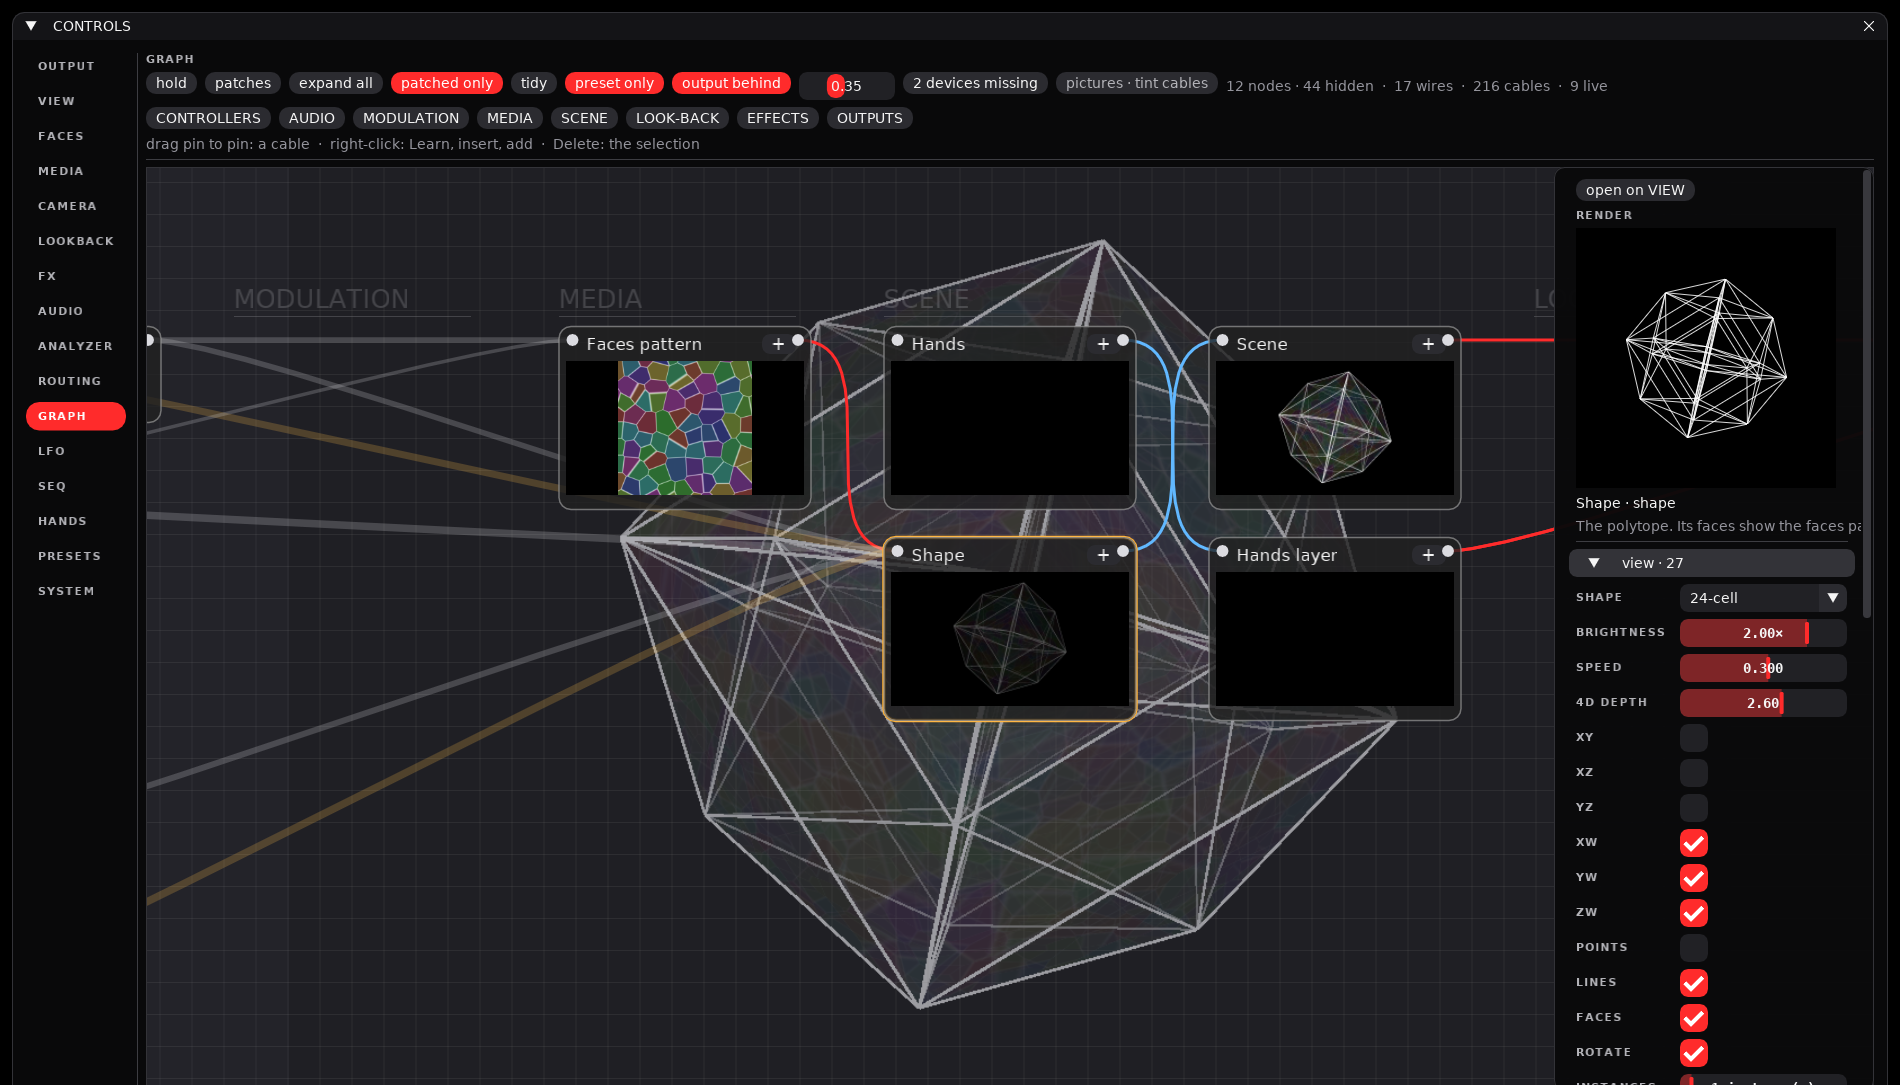
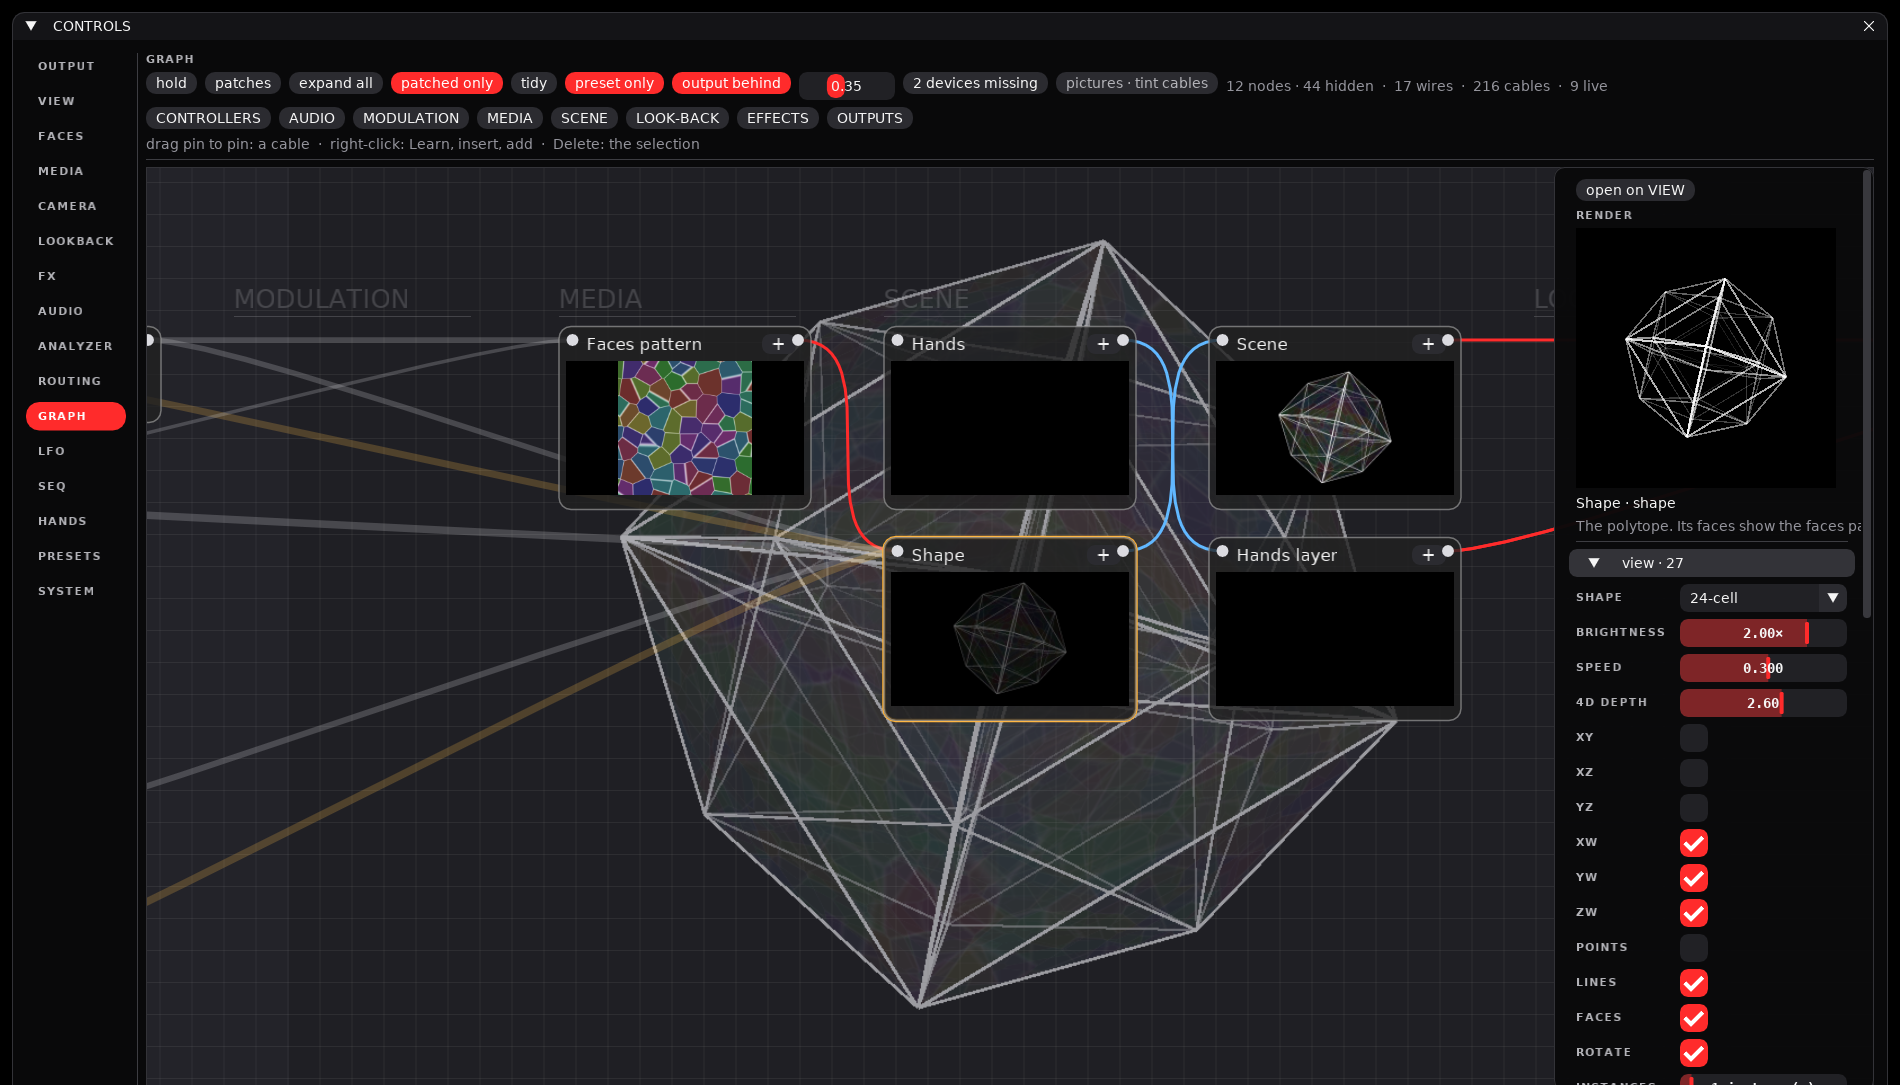
GRAPH: the shape's wireframe is drawn by the renderer, not line by line in the panel
The side panel's wireframe was projected and drawn edge by edge in Python
every frame: several ms on the densest shapes, on the panel's loop. Now
the panel asks the renderer for it (Renderer.want_wire) and shows the
picture: at the end of a frame the renderer draws the shape through its
own scene pass with the edges alone (no faces, points or copies, the
camera at rest, brightness 1) over black into a square of its own, at the
box's framebuffer size so it stays sharp; not asked for a second, the
texture is freed. The canvas node keeps its scene picture as before.

Held, it is the preview renderer's, as the sliders under it are. The
outputs are byte-identical with and without it (tests/test_shape_wire.py).

Claude-Session: https://claude.ai/code/session_016tHLxhH2LM2eyW5kMYSG7p

diff --git a/hyperspace-python/tests/test_shape_wire.py b/hyperspace-python/tests/test_shape_wire.py
@@ -1,0 +1,123 @@
+"""The shape node's wireframe on GRAPH's side panel: the renderer draws the
+shape's edges alone, white on black, into a square of its own at the end of
+a frame (`Renderer.want_wire`, `_wire`) while the page asks, and frees it a
+second after; the page shows it when the shape node is selected
+(`ui_graph._wireframe`). No output pixel moves for it."""
+
+from __future__ import annotations
+
+from types import SimpleNamespace as NS
+
+import numpy as np
+from conftest import seed
+from test_thumbnails import SIZE, S, _px, _renderer, _views, ctx  # noqa: F401 — the GL fixture
+from test_ui_shell import frame
+from test_ui_shell import rig as shell_rig  # noqa: F401 — the headless panel fixture
+
+from hyperspace import graphview, render, ui_graph
+from hyperspace import hold as holdmod
+
+
+def _rgba(tex) -> np.ndarray:
+    w, h = tex.size
+    return np.frombuffer(tex.read(), np.uint8).reshape(h, w, 4)
+
+
+def test_the_outputs_are_byte_identical_with_and_without_the_wireframe(ctx):  # noqa: F811
+    """Three frames with the wireframe asked for give the same bytes on both
+    outputs, and the same counts, as three without."""
+    plain, wired = _renderer(ctx), _renderer(ctx)
+    pv, wv = _views(ctx), _views(ctx)
+    for k in range(3):
+        t = 2.0 + k / 60
+        plain.draw_outputs(S, *SIZE, 1.0, pv, t_now=t)
+        wired.want_wire(128)
+        wired.draw_outputs(S, *SIZE, 1.0, wv, t_now=t)
+        assert ctx.error == "GL_NO_ERROR"
+        for a, b in zip(pv, wv, strict=True):
+            assert np.array_equal(_px(a.target), _px(b.target)), k
+        assert plain.stats["effects"] == wired.stats["effects"]
+    assert plain.wire_texture() is None and wired.wire_texture() is not None
+    assert not getattr(wired, "wire_error", "")
+
+
+def test_the_wireframe_is_the_shapes_edges_white_on_black(ctx):  # noqa: F811
+    """The square is opaque black with grey-to-white lines on it — no
+    faces' colour, no red points — and turns with the shape."""
+    r, views = _renderer(ctx), _views(ctx)
+    r.want_wire(128)
+    r.draw_outputs(S, *SIZE, 1.0, views, t_now=2.0)
+    tex = r.wire_texture()
+    assert tuple(tex.size) == (128, 128)
+    px = _rgba(tex).astype(int)
+    assert (px[..., 3] == 255).all()                         # opaque: over black
+    lit = px[..., :3].max(axis=2) > 24
+    assert 0.01 < lit.mean() < 0.6                           # lines, not a fill
+    assert px[..., :3].max() > 150                           # some of them bright
+    rgb = px[lit][:, :3]
+    assert (rgb.max(axis=1) - rgb.min(axis=1)).max() <= 2    # grey: no colour at all
+    corners = px[[0, 0, -1, -1], [0, -1, 0, -1], :3]
+    assert (corners == 0).all()                              # black ground
+    turned = render.ViewState(**{**S.__dict__, "ang": [1.3, 0.2, 0.4, 1.9, 0.1, 0.6]})
+    r.want_wire(128)
+    r.draw_outputs(turned, *SIZE, 1.0, views, t_now=2.1)
+    assert not np.array_equal(_rgba(r.wire_texture()).astype(int), px)
+
+
+def test_the_wireframe_follows_its_size_and_is_dropped_unasked(ctx, monkeypatch):  # noqa: F811
+    """Its square is the size asked (clamped); not asked for `WIRE_DROP_S`,
+    its texture is freed; a hot reload frees it too."""
+    r, views = _renderer(ctx), _views(ctx)
+    r.draw_outputs(S, *SIZE, 1.0, views, t_now=2.0)
+    assert r.wire_texture() is None                          # never asked: nothing made
+    r.want_wire(64)
+    r.draw_outputs(S, *SIZE, 1.0, views, t_now=2.1)
+    assert tuple(r.wire_texture().size) == (64, 64)
+    r.want_wire(96)
+    r.draw_outputs(S, *SIZE, 1.0, views, t_now=2.2)
+    assert tuple(r.wire_texture().size) == (96, 96)
+    r.want_wire(10 ** 6)
+    assert r.wire_asked[0] == render.WIRE_PX_MAX
+    r.want_wire(96)
+    r.draw_outputs(S, *SIZE, 1.0, views, t_now=2.3)
+    monkeypatch.setattr(render, "WIRE_DROP_S", 0.0)          # a second has gone by
+    r.draw_outputs(S, *SIZE, 1.0, views, t_now=2.4)
+    assert r.wire_texture() is None and r.wire_asked is None
+    monkeypatch.setattr(render, "WIRE_DROP_S", 1.0)
+    r.want_wire(96)
+    r.draw_outputs(S, *SIZE, 1.0, views, t_now=2.5)
+    assert r.wire_texture() is not None
+    r.on_reload()
+    assert r.wire_texture() is None
+
+
+def test_wire_px_is_the_box_in_framebuffer_px():
+    assert ui_graph.wire_px(260.0, 1.0) == 260
+    assert ui_graph.wire_px(260.0, 2.0) == 520               # a Retina screen: 1:1, sharp
+    assert ui_graph.wire_px(4.0, 1.0) == 16
+
+
+def test_only_the_shape_nodes_details_ask_for_the_wireframe(shell_rig, monkeypatch):  # noqa: F811
+    """The shape node selected on GRAPH asks the canvas's renderer for its
+    wireframe at the box's size; another node's details do not."""
+    seed(shell_rig.lib.home)
+    panel = shell_rig.panel
+    frame(panel, "graph")
+    st = ui_graph._state(panel)
+    asked: list[int] = []
+    stub = NS(want_wire=asked.append, wire_texture=lambda: None)
+    monkeypatch.setattr(holdmod, "canvas_renderer", lambda p: stub)
+    from imgui_bundle import imgui
+    shape = st["view"].node("render:shape")
+    got = []
+    for n in (shape, graphview.VNode("device:pad", "device", "pad")):
+        asked.clear()
+        imgui.new_frame()
+        imgui.set_next_window_size(imgui.ImVec2(400, 600))
+        imgui.begin("side")
+        ui_graph._side(panel, st, st["view"], ("node", n))
+        imgui.end()
+        imgui.end_frame()
+        got.append(list(asked))
+    assert len(got[0]) == 1 and 16 <= got[0][0] <= ui_graph.WIRE_MAX
+    assert got[1] == []

diff --git a/hyperspace-python/hyperspace/render.py b/hyperspace-python/hyperspace/render.py
@@ -171,6 +171,12 @@ from .view import N_MOD, RED, ViewState  # re-exported for callers that had them
 PREVIEW_HZ = 10.0
 PREVIEWS_PER_FRAME = 2
 
+# the GRAPH page's shape wireframe (`Renderer.want_wire`): the shape's edges
+# alone, white on black, in a square at most this many px a side, dropped
+# this long after the page last asked for it
+WIRE_PX_MAX = 1024
+WIRE_DROP_S = 1.0
+
 # plan 33 R29: how many frames a texture made at another size (`pool_at`, a
 # `(name, size)` frame target) is kept after its last use before
 # `_prune_sized` releases it — so a switch the sequencer flicks between two
@@ -1319,6 +1325,7 @@ class Renderer:
         if getattr(self, "thumbs", None) is not None:
             self.thumbs.close()
         self.thumbs = None
+        self._drop_wire()               # (the page asks again next frame)
         for res in (getattr(self, "_show_vao", None), getattr(self, "_show_prog", None),
                     getattr(self, "_lay_vao", None), getattr(self, "_lay_prog", None)):
             if res is not None:
@@ -1783,6 +1790,7 @@ class Renderer:
                 ui.upload()
             except Exception:  # noqa: BLE001, S110 — a thumbnail not made stays a dark box
                 pass
+        self._wire()
         self._thumbnails()
 
     # ---- plan 37 C1: the GRAPH page's thumbnails ----
@@ -1847,6 +1855,73 @@ class Renderer:
             if th.count:
                 _flush()
         th.end_frame()
+
+    # ---- the shape node's wireframe (GRAPH's side panel) ----
+
+    def want_wire(self, px: int) -> None:
+        """The GRAPH page shows the shape node's details: draw the shape's
+        wireframe into a `px` square at the end of the next frame (`_wire`),
+        and every frame after until the page has not asked for
+        `WIRE_DROP_S` — then its texture is freed, so a page not showing it
+        costs nothing."""
+        self.wire_asked = (max(16, min(int(px), WIRE_PX_MAX)), time.monotonic())
+
+    def wire_texture(self) -> moderngl.Texture | None:
+        """The wireframe as last drawn (GL's rows), or None: never asked, or dropped."""
+        got = self.__dict__.get("_wire_gl")
+        return got[0] if got is not None else None
+
+    def _drop_wire(self) -> None:
+        got, self._wire_gl = self.__dict__.get("_wire_gl"), None
+        for res in (got or ())[::-1]:
+            try:
+                res.release()
+            except Exception:  # noqa: BLE001, S110 — teardown is best-effort
+                pass
+
+    def _wire(self) -> None:
+        """The end of a frame (`_for_the_panel`), when the page asked: the
+        shape as this frame drew it (`_thumb_frame`'s view state: its shape,
+        angles, 3D hold, yaw and pitch) through `draw_scene` with the edges
+        alone — no faces, no points, one copy, the camera's zoom and pan and
+        the eye left at rest, brightness 1 — over black, into the wire's
+        own square. The scene pass's buffers it writes are rewritten by the
+        next frame's before anything reads them; what the cover pass reads
+        of the last pass (`_face_verts`, `_copies`, `_scene_mats`) is put
+        back. Never raises: the panel's pictures must not take the frame down."""
+        asked = getattr(self, "wire_asked", None)
+        if asked is None:
+            return
+        px, at = asked
+        if time.monotonic() - at >= WIRE_DROP_S:
+            self.wire_asked = None
+            self._drop_wire()
+            return
+        frame = getattr(self, "_thumb_frame", None)
+        if frame is None:
+            return
+        ctx = self.ctx
+        saved = (self._face_verts, self._copies, self._scene_mats)
+        try:
+            got = self.__dict__.get("_wire_gl")
+            if got is None or tuple(got[0].size) != (px, px):
+                self._drop_wire()
+                tex = ctx.texture((px, px), 4)
+                tex.filter = (moderngl.LINEAR, moderngl.LINEAR)
+                got = self._wire_gl = (tex, ctx.framebuffer(color_attachments=[tex]))
+            ws = replace(frame.s, faces=False, points=False, lines=True, lines_alpha=1.0,
+                         bright=1.0, instances=1, inst_fit=False, zoom=1.0, pan=[0.0, 0.0],
+                         eye_fov=EYE_FOV, eye_distance=EYE_DISTANCE, screen_strokes=False)
+            got[1].use()
+            ctx.viewport = (0, 0, px, px)
+            ctx.clear(0.0, 0.0, 0.0, 1.0)
+            self.draw_scene(ws, px, px, clear=False)
+            self.wire_error = ""
+        except Exception as e:  # noqa: BLE001 — a wireframe not drawn stays black
+            self.wire_error = f"{type(e).__name__}: {e}"[:120]
+        finally:
+            self._face_verts, self._copies, self._scene_mats = saved
+            ctx.blend_func = moderngl.SRC_ALPHA, moderngl.ONE_MINUS_SRC_ALPHA
 
     def media_shown(self, c: str) -> tuple[moderngl.Texture, bool] | None:
         """Channel `c`'s raw texture as this frame read it, and whether its

diff --git a/hyperspace-python/hyperspace/ui_graph.py b/hyperspace-python/hyperspace/ui_graph.py
@@ -156,7 +156,6 @@ import sys
 import time
 from pathlib import Path
 
-import numpy as np
 from imgui_bundle import imgui
 from imgui_bundle import imgui_node_editor as ed
 
@@ -164,7 +163,6 @@ from . import graph as rgraph
 from . import graphview, modifiers, params, patches, pinch, ui, ui_fx, ui_pad, ui_routing, undo
 from . import hold as holdmod
 from .bands import CEIL
-from .geometry import geom, shape_view
 from .graph import Effect
 from .library import LibraryError
 from .params import Kind
@@ -250,10 +248,10 @@ MONITOR_TIP = "What the projector shows: the held look. TAKE puts the preview be
 FAINT_PIC = 0.4
 THUMB_GROUND = (0.0, 0.0, 0.0, 1.0)    # the box before (or without) a picture
 # the shape node's side panel: the polytope alone, as white lines on black
-# (`wireframe`) — the shape as it turns now, without the scene's faces,
-# points, pattern or effects; a square this wide (capped) at the top
+# (`_wireframe`, drawn by the renderer: `Renderer.want_wire`) — the shape as
+# it turns now, without the scene's faces, points, pattern or effects; a
+# square this wide (capped) at the top
 WIRE_MAX = 260.0         # px: the square's side at most
-WIRE_ALPHA = 0.85        # a line's alpha (white)
 WIRE_TIP = ("The shape alone, live: its edges at the angles it is drawn at — no faces, "
             "points, pattern or effects")
 # plan 37 C2 (D3): the head's **pictures · tint cables** switch, off by
@@ -3071,26 +3069,20 @@ def _node_side(panel, st: dict, view: graphview.View, router, n: graphview.VNode
             imgui.text_disabled(f"{port.name}: {_said(port.live)}")
 
 
-def wireframe(s, side: float):
-    """The shape node's preview: its edges as segments ((m, 4) — x0, y0,
-    x1, y1, px from the top-left of a `side` × `side` square) at the angles
-    the renderer draws it at now (`shape_view`: its 3D hold, its
-    body, yaw and pitch, a scene's layers each at its spin) — the camera's
-    zoom and pan, the copies and the faces left out. `s` the ViewState."""
-    g = geom(s.shape)
-    px, py, _, _ = shape_view(
-        s.shape, s.ang, s.yaw, s.pitch, d4=s.depth4, w=side, h=side,
-        flat=getattr(s, "held", False), body=getattr(s, "body", None))
-    E = g["E"]
-    return np.stack([px[E[:, 0]], py[E[:, 0]], px[E[:, 1]], py[E[:, 1]]], axis=1)
+def wire_px(side: float, fb_scale: float) -> int:
+    """The wireframe's square in framebuffer px: the box's logical `side`
+    × the window's framebuffer scale (2 on a Retina screen), so it is drawn
+    1:1 and stays sharp."""
+    return max(16, round(side * max(fb_scale, 1.0)))
 
 
 def _wireframe(panel) -> None:
-    """The shape node's side panel: `wireframe` in a black square as wide
-    as the column (at most `WIRE_MAX`), white lines, clipped to it."""
-    s = getattr(panel, "view", None)
-    if s is None:
-        return
+    """The shape node's side panel: a black square as wide as the column
+    (at most `WIRE_MAX`) holding the renderer's wireframe of the shape
+    (`Renderer.want_wire`: the edges alone, drawn on the GPU at the end of
+    each frame while this asks) — the renderer the canvas reads
+    (`holdmod.canvas_renderer`: held, the preview's, as the sliders under
+    it are). Black until its first picture, or with no renderer."""
     side = min(imgui.get_content_region_avail().x, WIRE_MAX)
     if side < 16.0:
         return
@@ -3101,11 +3093,15 @@ def _wireframe(panel) -> None:
     p1 = imgui.ImVec2(p0.x + side, p0.y + side)
     dl = imgui.get_window_draw_list()
     dl.add_rect_filled(p0, p1, ui.u32(imgui.ImVec4(*THUMB_GROUND)))
-    dl.push_clip_rect(p0, p1, True)
-    col = ui.u32(imgui.ImVec4(1.0, 1.0, 1.0, WIRE_ALPHA))
-    for x0, y0, x1, y1 in wireframe(s, side):
-        dl.add_line(imgui.ImVec2(p0.x + x0, p0.y + y0), imgui.ImVec2(p0.x + x1, p0.y + y1), col)
-    dl.pop_clip_rect()
+    r = holdmod.canvas_renderer(panel)
+    if r is None or not hasattr(r, "want_wire"):
+        return
+    r.want_wire(wire_px(side, imgui.get_io().display_framebuffer_scale.x))
+    tex = r.wire_texture()
+    if tex is None or getattr(tex, "glo", 0) == 0:
+        return
+    dl.add_image(imgui.ImTextureRef(tex.glo), p0, p1,
+                 imgui.ImVec2(0, 1), imgui.ImVec2(1, 0))      # GL's rows: upside down in v
 
 
 # ---------------------------------------------------------------- a node's controls (2026-10-24)

diff --git a/hyperspace-python/tests/test_graph_edit.py b/hyperspace-python/tests/test_graph_edit.py
@@ -12,7 +12,6 @@ import ast
 from pathlib import Path
 from types import SimpleNamespace
 
-import numpy as np
 import pytest
 from conftest import seed
 from imgui_bundle import imgui
@@ -20,7 +19,7 @@ from test_graphview import FakeDevice
 from test_ui_shell import frame
 from test_ui_shell import rig as shell_rig  # noqa: F401 — the headless panel fixture
 
-from hyperspace import devices, gamepad, geometry, graphview, learn, ui_graph, ui_pad, ui_routing
+from hyperspace import devices, gamepad, graphview, learn, ui_graph, ui_pad, ui_routing
 from hyperspace import graph as G
 from hyperspace.devices import Port
 from hyperspace.learn import Learn
@@ -1816,29 +1815,3 @@ def test_the_pad_nodes_details_draw_the_pad(rig, monkeypatch):
         imgui.end_frame()
         assert drew == want
     assert ui_pad.rect(panel, gamepad.LAYOUT[0]) is not None    # it really laid the pad out
-
-
-def test_the_shape_nodes_details_draw_its_wireframe(rig, monkeypatch):
-    """The shape node selected on GRAPH: its details open on the shape
-    alone as white lines (`ui_graph.wireframe`) — an edge a segment, at the
-    angles it is drawn at, inside the square — and another node's do not."""
-    panel = rig.panel
-    frame(panel, "graph")
-    st = ui_graph._state(panel)
-    s = panel.view
-    segs = ui_graph.wireframe(s, 200.0)
-    assert segs.shape == (geometry.geom(s.shape)["m"], 4)
-    assert np.all((segs > 0.0) & (segs < 200.0))        # a 4D shape at rest fits its square
-    s.ang = [0.3, 0.0, 0.0, 0.9, 0.0, 0.0]
-    assert not np.allclose(ui_graph.wireframe(s, 200.0), segs)   # it turns as the shape does
-    drew, real = [], ui_graph._wireframe
-    monkeypatch.setattr(ui_graph, "_wireframe", lambda p: (drew.append(1), real(p)))
-    shape = st["view"].node("render:shape")
-    for n, want in ((shape, [1]), (graphview.VNode("device:pad", "device", "pad"), [])):
-        drew.clear()
-        imgui.new_frame()
-        imgui.begin("side")
-        ui_graph._side(panel, st, st["view"], ("node", n))
-        imgui.end()
-        imgui.end_frame()
-        assert drew == want
